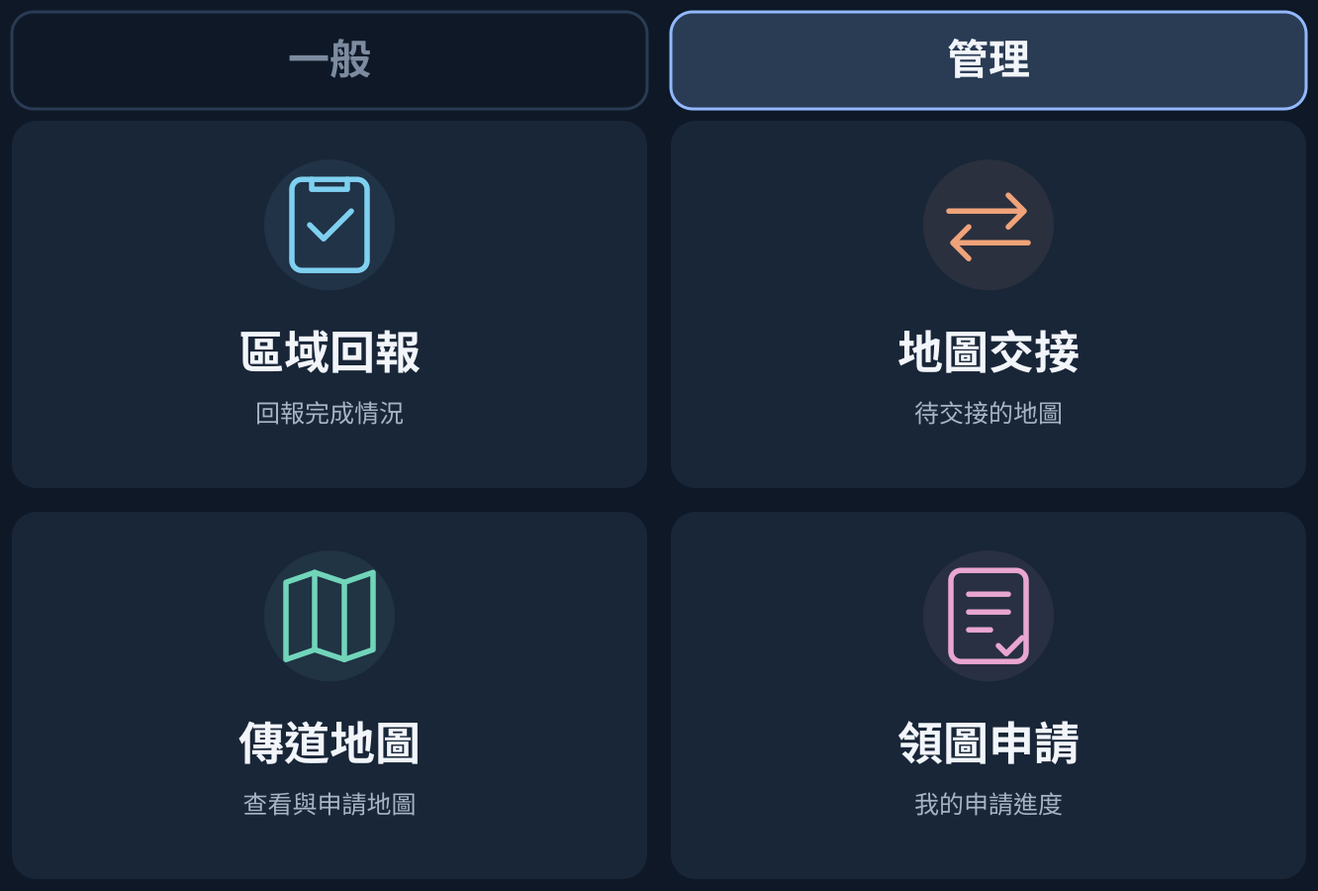
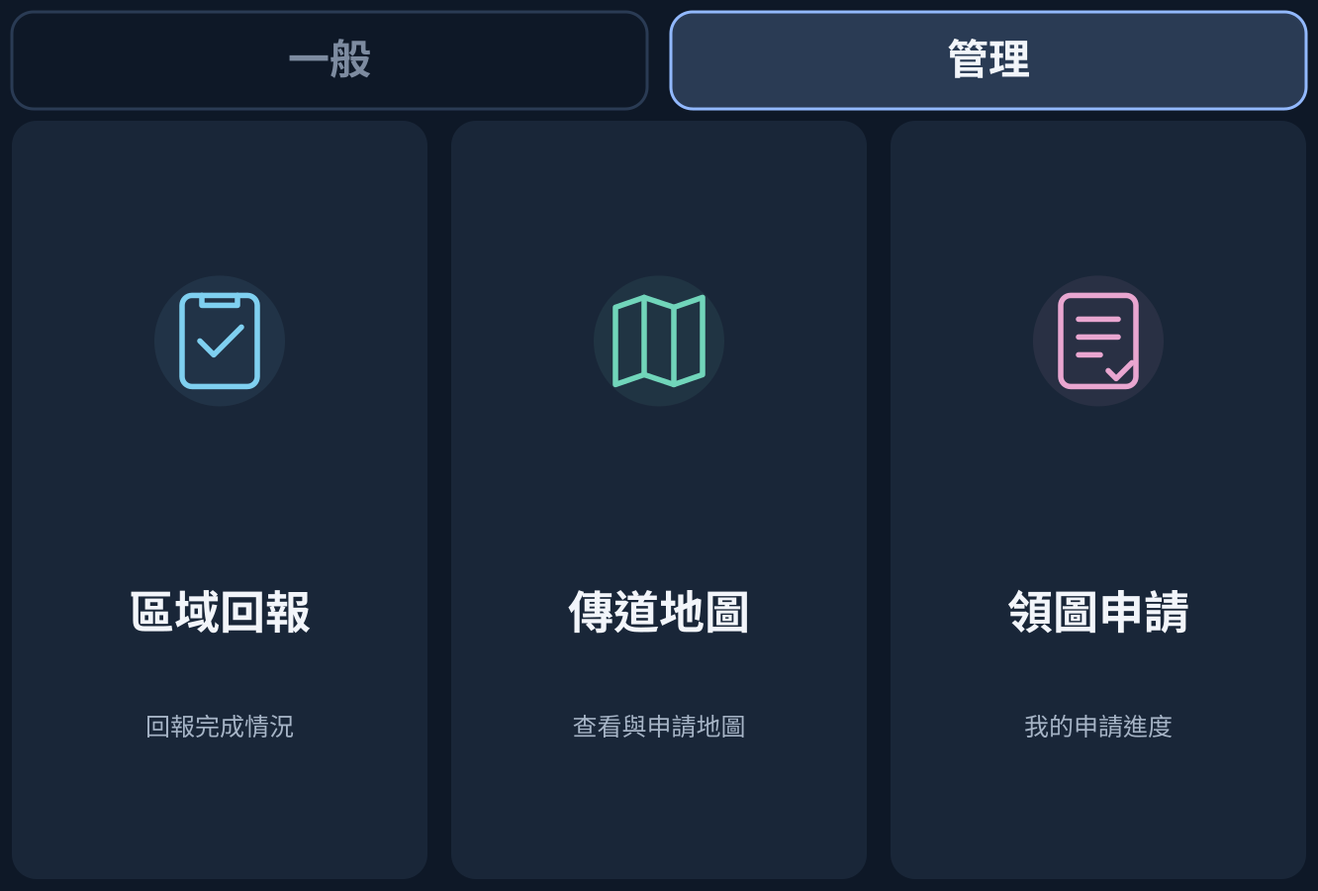
feat: 關閉地圖交接，LINE 管理頁拿掉交接格並升 v8（ADR-0120） (#84)
* feat: 被交接的弟兄可從地圖交接進入，通知附連結，預排只選弟兄（ADR-0119）

Claude-Session: https://claude.ai/code/session_01XDbjwRjmhBbJEnQBF1hhCM

* feat: 關閉地圖交接，LINE 管理頁拿掉交接格並升 v8（ADR-0120）

Claude-Session: https://claude.ai/code/session_01XDbjwRjmhBbJEnQBF1hhCM

---------

diff --git a/src/app/dashboard/page.tsx b/src/app/dashboard/page.tsx
@@ -9,7 +9,7 @@ import SyncCheck from '../../components/dashboard/SyncCheck'
 import PersonalAssignmentsPanel from '../../components/dashboard/PersonalAssignments'
 import type { PersonalAssignments } from '../../lib/personal-assignments'
 import { adminManagementLinks } from '@/lib/navigation'
-type Dashboard = { showTerritory: boolean; tasks: { id: string; areaId: string; label: string; date: string; status: string }[]; assignments: PersonalAssignments; handoffs: { areaId: string; label: string; publisher: string; submittedDate: string | null; next: {name: string; date: string} | null }[]; name: string; isAdmin: boolean; maps: { id: string; label: string; sheetNo: number | null; doNotVisitCount: number; dispatchedDate: string | null; heldDays: number | null; ministryPending: number; ministryActive: boolean; report: { date: string; status: string } | null }[]; pendingRequests: { id: string; label: string; date: string }[]; reviewCount: number | null }
+type Dashboard = { showTerritory: boolean; assignments: PersonalAssignments; handoffs: { areaId: string; label: string; publisher: string; submittedDate: string | null; next: {name: string; date: string} | null }[]; name: string; isAdmin: boolean; maps: { id: string; label: string; sheetNo: number | null; doNotVisitCount: number; dispatchedDate: string | null; heldDays: number | null; ministryPending: number; ministryActive: boolean; report: { date: string; status: string } | null }[]; pendingRequests: { id: string; label: string; date: string }[]; reviewCount: number | null }
 export default function DashboardPage() {
   const [data, setData] = useState<Dashboard | null>(null)
   const [error, setError] = useState('')
@@ -28,8 +28,8 @@ export default function DashboardPage() {
     if (!data) return
     const view = new URLSearchParams(window.location.search).get('view')
     if (!view || !['maps', 'week', 'handoffs', 'assignments'].includes(view)) return
-    // 地圖交接按鈕：先看排給我的地圖（領圖人與被交接人可能不同，ADR-0119），再看我要交接出去的。
-    const target = view === 'handoffs' && data.tasks.length ? 'assigned-maps' : view === 'week' || (!data.showTerritory && ['maps', 'handoffs'].includes(view)) ? 'assignments' : view
+    // 地圖交接已關閉（ADR-0120），舊的 handoffs 連結改到我的地圖。
+    const target = view === 'week' || (!data.showTerritory && ['maps', 'handoffs'].includes(view)) ? 'assignments' : view === 'handoffs' ? 'maps' : view
     const frame = requestAnimationFrame(() => document.getElementById(target)?.scrollIntoView({ block: 'start' }))
     return () => cancelAnimationFrame(frame)
   }, [data])
@@ -43,31 +43,17 @@ export default function DashboardPage() {
     {!data && !error && <div role="status" className="space-y-4"><span className="text-sm text-mc-text/70">正在載入看板…</span><div aria-hidden="true" className="h-48 rounded-xl bg-mc-card motion-safe:animate-pulse" /></div>}
     {data && <>
       <PersonalAssignmentsPanel data={data.assignments} kind={typeof window !== 'undefined' && new URLSearchParams(window.location.search).get('kind') === 'program' ? 'program' : 'service'} />
-      {data.tasks.length > 0 && <section id="assigned-maps" data-dashboard-section="handoffs" className="dashboard-section scroll-mt-20">
-        <div className="flex items-baseline justify-between gap-3"><h2 className="text-lg font-semibold">排給我的地圖</h2><span className="text-sm text-amber-200">{data.tasks.length} 筆</span></div>
-        <div className="mt-3 divide-y divide-white/10">{data.tasks.map(task => <a key={task.id} href={`/map/ministry/${encodeURIComponent(task.areaId)}`} className="flex min-h-16 items-center justify-between gap-3 py-3 hover:bg-white/[.03]">
-          <div className="min-w-0"><p className="break-words font-medium">{task.label}</p><p className="mt-1 text-sm text-mc-text/70">預排 {task.date}</p></div>
-          <span className={`flex shrink-0 items-center gap-1 text-sm ${task.status === 'active' ? 'text-amber-200' : 'text-mc-text/70'}`}>{task.status === 'active' ? '已交接給我' : '等待交接'}<ArrowRight size={16} aria-hidden="true" /></span>
-        </a>)}</div>
-      </section>}
       {data.showTerritory && <>
-        {!data.isAdmin && <section id="handoffs" data-dashboard-section="handoffs" className="dashboard-section scroll-mt-20">
-          <div className="flex items-baseline justify-between gap-3"><h2 className="text-lg font-semibold">待交接</h2><span className={`text-sm ${data.handoffs.length ? 'text-amber-200' : 'text-mc-text/70'}`}>{data.handoffs.length} 張</span></div>
-          {!data.handoffs.length ? <p className="mt-3 text-sm text-mc-text/70">目前無待交接地圖</p> : <div className="mt-3 divide-y divide-white/10">{data.handoffs.map(item => <details key={item.areaId} className="group">
-            <summary className="flex min-h-16 cursor-pointer list-none items-center justify-between gap-3 py-3 [&::-webkit-details-marker]:hidden"><span className="font-medium">{item.label}</span><span className="ml-auto text-sm text-amber-200">{item.next ? '已有下一位' : '待安排'}</span><ChevronDown size={16} aria-hidden="true" className="shrink-0 text-mc-text/70 transition-transform group-open:rotate-180" /></summary>
-            <div className="space-y-2 pb-5 text-sm text-mc-text/70"><p>{item.publisher} 已提交 · {item.submittedDate || '日期未記錄'}</p><p>{item.next ? `下一位：${item.next.name} · ${item.next.date}` : '尚未安排下一位'}</p><a href={`/map/ministry/${item.areaId}`} className="inline-flex min-h-11 items-center gap-2 text-blue-200">處理交接<ArrowRight size={16} aria-hidden="true" /></a></div>
-          </details>)}</div>}
-        </section>}
         <section id="maps" data-dashboard-section="maps" className="dashboard-section scroll-mt-20">
           <header className="flex flex-wrap items-baseline justify-between gap-3"><h2 className="text-lg font-semibold">我的地圖 <span className="ml-2 text-sm font-normal text-mc-text/70">{data.maps.length} 張</span></h2><a href="/map-requests" className="inline-flex min-h-11 items-center gap-2 text-sm text-blue-200">領圖申請{data.pendingRequests.length > 0 && <span className="text-amber-200">{data.pendingRequests.length} 待審</span>}<ArrowRight size={15} aria-hidden="true" /></a></header>
           {!data.maps.length ? <p className="py-5 text-sm text-mc-text/70">目前沒有持有地圖</p> : <div className="divide-y divide-white/10">{data.maps.map(map => <details key={map.id} className="group">
             <summary className="flex min-h-20 cursor-pointer list-none items-center gap-3 py-4 [&::-webkit-details-marker]:hidden">
-              <div className="min-w-0 flex-1"><h3 className="break-words font-medium">{map.label}</h3><p className="mt-1 text-sm text-mc-text/70">{map.ministryActive ? '傳道進行中' : map.ministryPending ? `${map.ministryPending} 筆預排` : '尚無預排'}{map.doNotVisitCount > 0 && <span className="ml-2 font-medium text-red-300">⚠ 拒訪 {map.doNotVisitCount} 筆</span>}</p></div>
+              <div className="min-w-0 flex-1"><h3 className="break-words font-medium">{map.label}</h3>{map.doNotVisitCount > 0 && <p className="mt-1 text-sm font-medium text-red-300">⚠ 拒訪 {map.doNotVisitCount} 筆</p>}</div>
               <span className="shrink-0 text-sm tabular-nums text-mc-text/70">{map.heldDays === null ? '日期待補' : `持有 ${map.heldDays} 天`}</span><ChevronDown size={16} aria-hidden="true" className="shrink-0 text-mc-text/70 transition-transform group-open:rotate-180" />
             </summary>
             <div className="space-y-4 pb-6">
               <dl className="grid gap-3 text-sm sm:grid-cols-2"><div><dt className="text-mc-text/70">領取日期</dt><dd className="mt-1">{map.dispatchedDate || '未記錄'}</dd></div><div><dt className="text-mc-text/70">本輪回報</dt><dd className="mt-1">{map.report ? `${map.report.date} 已提交` : map.dispatchedDate ? '尚未提交' : '無領取日期，無法判斷'}</dd></div></dl>
-              <div className="flex flex-wrap items-center gap-x-5 gap-y-2 text-sm"><a className="inline-flex min-h-11 items-center gap-2 rounded-lg bg-blue-300/15 px-4 text-blue-200 hover:bg-blue-300/25" href={`/map/ministry/${map.id}`}>管理／傳道進度<ArrowRight size={15} aria-hidden="true" /></a>{map.sheetNo && map.sheetNo !== 2 && <a className="inline-flex min-h-11 items-center text-mc-text/80 underline underline-offset-4" href={`/maps/areas/${map.sheetNo}.jpg`} target="_blank" rel="noreferrer">查看小地圖</a>}<a className="inline-flex min-h-11 items-center text-mc-text/80 underline underline-offset-4" href={map.sheetNo ? `/bulletin/territory-report?area=${map.sheetNo}` : '/bulletin/territory-report'}>提交回報</a></div>
+              <div className="flex flex-wrap items-center gap-x-5 gap-y-2 text-sm">{map.sheetNo && map.sheetNo !== 2 && <a className="inline-flex min-h-11 items-center text-mc-text/80 underline underline-offset-4" href={`/maps/areas/${map.sheetNo}.jpg`} target="_blank" rel="noreferrer">查看小地圖</a>}<a className="inline-flex min-h-11 items-center text-mc-text/80 underline underline-offset-4" href={map.sheetNo ? `/bulletin/territory-report?area=${map.sheetNo}` : '/bulletin/territory-report'}>提交回報</a></div>
               <p className="text-xs leading-relaxed text-mc-text/70">提交回報不代表整張完成；交回後才會移出清單。</p>
             </div>
           </details>)}</div>}

diff --git a/src/components/dashboard/AdminTaskCenter.tsx b/src/components/dashboard/AdminTaskCenter.tsx
@@ -7,7 +7,6 @@ import type { AdminTasks } from '../../lib/admin-tasks'
 const categories = [
   { key: 'line', label: 'LINE 待確認', unit: '人' },
   { key: 'requests', label: '領圖待審', unit: '張' },
-  { key: 'handoffs', label: '待交接', unit: '張' },
   { key: 'alerts', label: '回報待確認', unit: '則' },
   { key: 'doNotVisit', label: '拒訪待審', unit: '筆' },
 ] as const
@@ -32,7 +31,7 @@ export default function AdminTaskCenter() {
       if (controller.signal.aborted) return
       setData(value)
       if (!initialized.current) {
-        setCategory(new URLSearchParams(window.location.search).get('view') === 'handoffs' ? 'handoffs' : categories.find(c => value[c.key].count > 0)?.key || 'line')
+        setCategory(categories.find(c => value[c.key].count > 0)?.key || 'line')
         initialized.current = true
       }
     } catch (e) {
@@ -76,7 +75,6 @@ export default function AdminTaskCenter() {
       await load()
     } catch (e) { setError(e instanceof Error ? e.message : '處理失敗') } finally { setReviewing('') }
   }
-  const handoffs = data?.handoffs.items.slice(0, expanded ? undefined : 5) || []
   return <section id="handoffs" aria-labelledby="admin-tasks-title" data-dashboard-section="handoffs" className="dashboard-section">
     <header className="flex items-center justify-between gap-3">
       <h2 id="admin-tasks-title" className="font-semibold">管理待辦</h2>
@@ -97,7 +95,6 @@ export default function AdminTaskCenter() {
       <div className="mt-2 max-h-96 divide-y divide-white/5 overflow-y-auto">
         {category === 'line' && data.line.items.map((item, index) => <a key={index} href="/members#pending-line" className="flex min-h-14 items-center justify-between gap-3 px-1 py-3 hover:bg-white/[.03]"><div className="min-w-0"><strong className="block break-words text-sm">{item.name}</strong><p className="mt-1 text-xs text-mc-text/50">{item.date}</p></div><span className="flex shrink-0 items-center gap-1 text-xs text-blue-300">連結成員<ArrowRight size={14}/></span></a>)}
         {category === 'requests' && data.requests.items.map(item => <a key={item.id} href={`/map-requests#request-${encodeURIComponent(item.id)}`} className="flex min-h-14 items-center justify-between gap-3 px-1 py-3 hover:bg-white/[.03]"><div className="min-w-0"><strong className="block break-words text-sm">{item.label}<span className="ml-2 font-normal text-mc-text/60">{item.name}</span></strong><p className="mt-1 text-xs text-mc-text/50">{item.date}</p></div><span className="flex shrink-0 items-center gap-1 text-xs text-blue-300">審核<ArrowRight size={14}/></span></a>)}
-        {category === 'handoffs' && handoffs.map(item => <a key={item.areaId} href={`/map/ministry/${encodeURIComponent(item.areaId)}`} className="flex min-h-14 items-center justify-between gap-3 px-1 py-3 hover:bg-white/[.03]"><div className="min-w-0"><strong className="block text-sm">{item.label}<span className="ml-2 font-normal text-mc-text/60">管理者 {item.manager}</span></strong><p className="mt-1 text-xs text-amber-200">{item.next ? `下一位 ${item.next.name} · ${item.next.date}` : '待安排'}</p></div><span className="flex shrink-0 items-center gap-1 text-xs text-blue-300">交接<ArrowRight size={14}/></span></a>)}
         {category === 'doNotVisit' && data.doNotVisit.items.map(item => <div key={item.id} className="flex min-h-14 flex-wrap items-center justify-between gap-3 px-1 py-3"><div className="min-w-0 flex-1"><strong className="block break-words text-sm">{item.address}</strong><p className="mt-1 text-xs text-mc-text/60">{item.label} · {item.name} · {item.date}</p></div><div className="flex shrink-0 gap-2"><button disabled={Boolean(reviewing)} onClick={() => void reviewDoNotVisit(item, 'approve')} className="min-h-11 rounded-lg bg-blue-400/15 px-3 text-xs text-blue-200 disabled:opacity-40">{reviewing === item.id ? '處理中…' : '核准'}</button><button disabled={Boolean(reviewing)} onClick={() => void reviewDoNotVisit(item, 'reject')} className="min-h-11 rounded-lg bg-white/5 px-3 text-xs text-mc-text/70 disabled:opacity-40">不採用</button></div></div>)}
         {category === 'alerts' && data.alerts.items.map(item => <div key={item.id} className="space-y-2 px-1 py-3">
           <div className="flex flex-wrap items-center gap-2"><span className="rounded-full bg-amber-400/15 px-2 py-0.5 text-xs text-amber-200">{item.badge}</span><strong className="text-sm">{item.label}</strong><span className="text-xs text-mc-text/50">{item.date}</span></div>
@@ -109,7 +106,6 @@ export default function AdminTaskCenter() {
       <div className="text-xs">
         {category === 'line' && data.line.count > 5 && <a href="/members#pending-line" className="inline-flex min-h-11 items-center text-blue-300">查看全部（{data.line.count}）</a>}
         {category === 'requests' && data.requests.count > 5 && <a href="/map-requests" className="inline-flex min-h-11 items-center text-blue-300">查看全部（{data.requests.count}）</a>}
-        {category === 'handoffs' && data.handoffs.count > 5 && <button onClick={() => setExpanded(v => !v)} className="min-h-11 text-blue-300">{expanded ? '收合清單' : `查看全部 ${data.handoffs.count} 張`}</button>}
       </div>
     </>}
   </section>

diff --git a/src/lib/line-rich-menu.ts b/src/lib/line-rich-menu.ts
@@ -12,9 +12,9 @@ export type MenuKey = 'sister' | 'brother-general' | 'brother-manage' | 'admin-g
 export const menuKeys: MenuKey[] = ['sister', 'brother-general', 'brother-manage', 'admin-general', 'admin-manage']
 const tabbedKeys = menuKeys.filter(key => key !== 'sister') as Exclude<MenuKey, 'sister'>[]
 const liffId = configuredLiffId()
-const stateKey = (key: MenuKey) => liffId ? `line_rich_menu_v7_${key}_liff_${liffId}` : `line_rich_menu_v7_${key}`
+const stateKey = (key: MenuKey) => liffId ? `line_rich_menu_v8_${key}_liff_${liffId}` : `line_rich_menu_v8_${key}`
 // Alias ids are per channel: [a-z0-9_-], at most 32 characters.
-export const aliasId = (key: MenuKey) => `cms-v7-${key}`
+export const aliasId = (key: MenuKey) => `cms-v8-${key}`
 const menuUrl = (view: string) => liffId ? `https://liff.line.me/${liffId}/?view=${view}` : `${botSite}${liffDestination(view)}`
 const lockKey = 'line_rich_menu_publish_lock'
 const api = 'https://api.line.me/v2/bot'
@@ -23,7 +23,7 @@ const uri = (view: string) => ({ type: 'uri' as const, uri: menuUrl(view) })
 const tiles: Record<string, { type: 'uri'; uri: string } | { type: 'message'; text: string }> = {
   publicTalks: uri('public-talks'), midweekMeeting: uri('midweek-meeting'), announcementsView: uri('announcements'), groups: uri('ministry-groups'),
   meetingPoints: uri('meeting-points'), serviceRoster: uri('service-roster'), dashboard: uri('dashboard'), assignments: { type: 'message', text: '我的委派' }, territory: uri('territory'),
-  report: uri('report'), handoffs: uri('handoffs'), myRequests: uri('requests'),
+  report: uri('report'), myRequests: uri('requests'),
   roster: uri('roster'), midweek: uri('midweek'), announcements: uri('manage-announcements'), members: uri('members'),
 }
 // Same rows and sizes as scripts/create-line-menu.cjs, which draws the images.
@@ -31,9 +31,9 @@ const general = [['publicTalks', 'midweekMeeting', 'announcementsView', 'groups'
 const layouts: Record<MenuKey, { width: number; height: number; label: string; tab: 'general' | 'manage' | null; rows: string[][] }> = {
   sister: { width: 1332, height: 674, label: '一般', tab: null, rows: general },
   'brother-general': { width: 1332, height: 900, label: '弟兄一般', tab: 'general', rows: general },
-  'brother-manage': { width: 1332, height: 900, label: '弟兄管理', tab: 'manage', rows: [['report', 'handoffs'], ['territory', 'myRequests']] },
+  'brother-manage': { width: 1332, height: 900, label: '弟兄管理', tab: 'manage', rows: [['report', 'territory', 'myRequests']] },
   'admin-general': { width: 1332, height: 900, label: '管理者一般', tab: 'general', rows: general },
-  'admin-manage': { width: 1332, height: 900, label: '管理者管理', tab: 'manage', rows: [['report', 'handoffs', 'roster', 'midweek'], ['territory', 'myRequests', 'announcements', 'members']] },
+  'admin-manage': { width: 1332, height: 900, label: '管理者管理', tab: 'manage', rows: [['report', 'territory', 'myRequests'], ['roster', 'midweek', 'announcements', 'members']] },
 }
 const BAR = 110
 function definition(key: MenuKey) {
@@ -46,7 +46,7 @@ function definition(key: MenuKey) {
   })) : []
   return {
     size: { width, height }, selected: true,
-    name: `楠梓會眾${label}選單 v7`, chatBarText: '開啟功能選單',
+    name: `楠梓會眾${label}選單 v8`, chatBarText: '開啟功能選單',
     areas: [...tabAreas, ...rows.flatMap((keys, row) => {
       const cell = Math.floor(width / keys.length), y = top + row * rowH
       return keys.map((name, i) => ({

diff --git a/src/lib/line-bot-queries.ts b/src/lib/line-bot-queries.ts
@@ -1,8 +1,5 @@
 import type { PrismaClient } from '@prisma/client'
 import { allocationLabel, isAreaDispatched } from './allocation'
-import { ministryCycle } from './ministry'
-import { ministryWeek } from './ministry-week'
-import { taipeiDate } from './google-sheets'
 import { botSite, lineDisplayName } from './line-bot-client'
 import { pendingLineMessage, recordPendingLineIdentity } from './pending-line-identities'
 
@@ -18,18 +15,10 @@ export async function lineBotAnswer(db: PrismaClient, uid: string, command: stri
   if (!member.active) return '此成員帳號已停用，請聯絡管理員確認權限。'
   const footer = `\n\n開啟網站查看詳情：\n${botSite}/dashboard`
   if (command === '我的委派') return assignmentsText(await personalAssignments(db, member.id, now), `${botSite}/dashboard?view=assignments`)
-  if (command === '本週行程') {
-    const rows = await db.ministryVisit.findMany({ where: { publisherId: member.id, status: { in: ['planned','active'] } }, include: { area: true }, orderBy: { scheduledDate: 'asc' } })
-    const tasks = rows.filter(v=>isAreaDispatched(v.area)&&v.cycleKey===ministryCycle(v.area)).map(v=>({ id:v.id,areaId:v.areaId,label:allocationLabel(v.area),date:v.scheduledDate,status:v.status }))
-    const week = ministryWeek(taipeiDate(now), tasks)
-    const entries = week.days.flatMap(d=>d.tasks)
-    const lines = entries.slice(0,15).map(t=>`${t.date}｜${t.label}｜${t.status==='active'?'進行中':'待交接'}`)
-    return `本週行程 ${week.days[0].date} ～ ${week.days[6].date}\n${lines.join('\n')||'本週沒有安排'}${entries.length>15?'\n其餘安排請至網站查看。':''}${week.earlier.length?`\n另有 ${week.earlier.length} 筆先前尚未完成。`:''}${footer}`
-  }
-  if (command === '我的地圖' || command === '待交接') {
-    const areas = await db.area.findMany({ where: { assignedMemberId: member.id }, include: { ministryVisits: { select: { status: true, cycleKey: true } } }, orderBy: { sheetNo: 'asc' } })
-    const maps = areas.filter(isAreaDispatched).filter(a=>command==='我的地圖'||(a.ministryVisits.some(v=>v.cycleKey===ministryCycle(a)&&v.status==='submitted')&&!a.ministryVisits.some(v=>v.cycleKey===ministryCycle(a)&&v.status==='active')))
+  if (command === '我的地圖') {
+    const areas = await db.area.findMany({ where: { assignedMemberId: member.id }, orderBy: { sheetNo: 'asc' } })
+    const maps = areas.filter(isAreaDispatched)
     return `${command} · ${maps.length} 張\n${maps.slice(0,20).map(allocationLabel).join('\n')||'目前沒有地圖'}${maps.length>20?'\n更多地圖請至網站查看。':''}${footer}`
   }
-  return `地圖分配系統\n請點下方「我的委派」「我的地圖」「本週行程」或「待交接」。\n查看交接摘要、塗畫、預排與回報請開啟網站。${footer}`
+  return `地圖分配系統\n請點下方「我的委派」或「我的地圖」。${footer}`
 }

diff --git a/src/app/api/dashboard/route.ts b/src/app/api/dashboard/route.ts
@@ -14,11 +14,10 @@ export async function GET() {
   try {
     const memberId = auth.user.id!
     const isAdmin = auth.user.role === 'admin'
-    const [areas, pendingRequests, reviewCount, assignedVisits, assignments, member] = await Promise.all([
+    const [areas, pendingRequests, reviewCount, assignments, member] = await Promise.all([
       prisma.area.findMany({ where: { assignedMemberId: memberId }, select: { id: true, name: true, mapId: true, mapAreaId: true, sheetNo: true, assignedMemberId: true, dispatchedAt: true, completedAt: true, doNotVisit: true, ministryVisits: { select: { status: true, cycleKey: true, publisherName: true, scheduledDate: true, submittedAt: true } }, reports: { where: { memberId }, orderBy: { submittedAt: 'desc' }, take: 1, select: { submittedAt: true, status: true } } }, orderBy: { dispatchedAt: 'asc' } }),
       prisma.mapRequest.findMany({ where: { memberId, status: 'pending' }, select: { id: true, createdAt: true, area: { select: { name: true, mapId: true, mapAreaId: true, sheetNo: true } } }, orderBy: { createdAt: 'asc' } }),
       isAdmin ? prisma.mapRequest.count({ where: { status: 'pending' } }) : Promise.resolve(null),
-      prisma.ministryVisit.findMany({ where: { publisherId: memberId, status: { in: ['planned', 'active'] } }, include: { area: { select: { id: true, name: true, mapId: true, sheetNo: true, mapAreaId: true, assignedMemberId: true, dispatchedAt: true, completedAt: true } } }, orderBy: { scheduledDate: 'asc' } }),
       personalAssignments(prisma, memberId),
       prisma.member.findUnique({ where: { id: memberId }, select: { showInDispatch: true } }),
     ])
@@ -31,7 +30,6 @@ export async function GET() {
       const handoff = ministryHandoff(area)
       return handoff ? [handoff] : []
     })
-    const tasks = assignedVisits.filter(v => isAreaDispatched(v.area) && v.cycleKey === ministryCycle(v.area)).map(v => ({ id: v.id, areaId: v.areaId, label: allocationLabel(v.area), date: v.scheduledDate, status: v.status }))
-    return NextResponse.json({ showTerritory: member?.showInDispatch === true, today, assignments, handoffs, tasks, name: auth.user.name || '成員', isAdmin, maps, pendingRequests: pendingRequests.map(r => ({ id: r.id, label: allocationLabel(r.area), date: taipeiDate(r.createdAt) })), reviewCount }, { headers: { 'Cache-Control': 'no-store' } })
+    return NextResponse.json({ showTerritory: member?.showInDispatch === true, today, assignments, handoffs, name: auth.user.name || '成員', isAdmin, maps, pendingRequests: pendingRequests.map(r => ({ id: r.id, label: allocationLabel(r.area), date: taipeiDate(r.createdAt) })), reviewCount }, { headers: { 'Cache-Control': 'no-store' } })
   } catch { return NextResponse.json({ error: '暫時無法讀取你的地圖，請稍後重試。' }, { status: 503 }) }
 }

diff --git a/src/lib/member-deletion.ts b/src/lib/member-deletion.ts
@@ -12,10 +12,7 @@ export async function deleteMember(db: PrismaClient, id: string, actorId: string
     if (!member || member.deletedAt) throw new MemberDeletionError('成員不存在', 404)
     const areas = await tx.area.findMany({ where: { assignedMemberId: id } })
     if (areas.some(isAreaDispatched)) throw new MemberDeletionError('請先交回或轉移持有的地圖')
-    const visit = await tx.ministryVisit.findFirst({ where: {
-      OR: [{ publisherId: id }, { managerId: id }], status: { in: ['planned', 'active'] },
-    } })
-    if (visit) throw new MemberDeletionError('請先取消或轉移未完成行程')
+    // 地圖交接已關閉（ADR-0120），沒有介面能取消傳道安排，不再以此擋刪除。
     // Preserve historical relations, but release the login identity.
     await tx.member.update({ where: { id }, data: {
       deletedAt: now, active: false, showInDispatch: false, lineuid: null, lineDisplayName: null, linePictureUrl: null,

diff --git a/src/lib/line-bot-client.ts b/src/lib/line-bot-client.ts
@@ -42,5 +42,5 @@ export async function lineRequest(kind: 'reply' | 'push', body: unknown, retryKe
   return { accepted: response.ok || (kind === 'push' && response.status === 409 && !!response.headers.get('x-line-accepted-request-id')), status: response.status }
 }
 export function botText(text: string) {
-  return { type: 'text', text: text.slice(0,4500), quickReply: { items: [...['我的委派','我的地圖','本週行程','待交接'].map(label=>({ type: 'action', action: { type: 'message', label, text: label } })), { type: 'action', action: { type: 'uri', label: '通知設定', uri: `${botSite}/dashboard` } }] } }
+  return { type: 'text', text: text.slice(0,4500), quickReply: { items: [...['我的委派','我的地圖'].map(label=>({ type: 'action', action: { type: 'message', label, text: label } })), { type: 'action', action: { type: 'uri', label: '通知設定', uri: `${botSite}/dashboard` } }] } }
 }

diff --git a/src/lib/line-pairing-notification.ts b/src/lib/line-pairing-notification.ts
@@ -4,7 +4,7 @@ import { queueLineNotification, drainLineNotifications } from './line-notificati
 
 export async function queuePairingNotice(tx: Prisma.TransactionClient, member: { id: string; name: string }) {
   return queueLineNotification(tx, member.id,
-    `已完成確認，您的 LINE 帳號已連結至「${member.name}」。\n可以查詢「我的地圖」「本週行程」「待交接」。\n\n請重新登入網站使用成員功能：\n${botSite}/login`, new Date())
+    `已完成確認，您的 LINE 帳號已連結至「${member.name}」。\n可以查詢「我的委派」「我的地圖」。\n\n請重新登入網站使用成員功能：\n${botSite}/login`, new Date())
 }
 
 export async function deliverPairingNotice(db: PrismaClient, id: string | null) {

diff --git a/src/app/map/ministry/[id]/layout.tsx b/src/app/map/ministry/[id]/layout.tsx
@@ -1,5 +1,6 @@
-export const metadata = { title: '傳道進度與交接' }
+import { redirect } from 'next/navigation'
 
-export default function Layout({ children }: { children: React.ReactNode }) {
-  return children
+// 地圖交接已關閉（ADR-0120）：舊連結與 LINE 通知裡的網址導回我的看板，資料保留不刪。
+export default function Layout() {
+  redirect('/dashboard?view=maps')
 }

diff --git a/docs/adr/0120-close-map-handoff.md b/docs/adr/0120-close-map-handoff.md
@@ -1,0 +1,20 @@
+# ADR-0120：關閉地圖交接功能
+
+2026-11-09，已接受。取代 ADR-0119，並停用 ADR-0025、0027、0028 的操作入口。
+
+## 背景
+
+使用者看過地圖交接（傳道預排、塗畫局部進度、交接、整張交回）的完整流程後，覺得太複雜，決定先關閉。
+
+## 決策
+
+- LINE 管理頁拿掉「地圖交接」格。弟兄管理頁一排三格：區域回報、傳道地圖、領圖申請。管理者管理頁上排同弟兄三格，下排服務安排、週中編排、管理公告、成員管理；拿掉左右虛線分隔。選單圖片改變，狀態鍵與 alias 升為 v8（`line_rich_menu_v8_*`、`cms-v8-*`），部署後需再按一次「發布至 LINE」。
+- 我的看板拿掉「待交接」「排給我的地圖」區塊，以及我的地圖裡的「管理／傳道進度」連結與預排狀態文字；管理員待辦中心拿掉「待交接」分類。舊的 `?view=handoffs` 連結改捲到我的地圖。
+- `/map/ministry/[id]` 一律導回我的看板（我的地圖），舊 LINE 通知裡的連結不會 404。沒有頁面就不會再產生交接通知。
+- LINE 私訊拿掉「本週行程」「待交接」指令與快速回覆，只留「我的委派」「我的地圖」。
+- 刪除成員不再因未完成的傳道安排而被擋，因為已沒有介面可以取消。
+
+## 不變
+
+- `ministry_visits` 資料表與既有資料保留，不做破壞性遷移；交接 API 程式保留，日後要重新開啟時再補入口。
+- 交回地圖、區域回報、領圖申請、Sheet 同步都不受影響。

diff --git a/docs/line-bot-setup.md b/docs/line-bot-setup.md
@@ -10,7 +10,7 @@
    - `LINE_BOT_ENABLED=true`：正式啟用開關。
 3. 重新部署後，管理員儀錶板「LINE Bot 通知」應顯示已啟用。
 4. 官方帳號 Webhook URL 設為 `https://congregation-management-system.vercel.app/api/line-bot/webhook`，按 Verify 並開啟 Use webhook。若原帳號已有其他 webhook 服務，先確認整合方式，不直接覆蓋。避免既有自動回覆重複回答相同指令。
-5. 管理員及測試傳道者加入官方帳號好友。未綁定 UID 首次私訊或 LINE 登入會登記並提示「待管理員確認權限」；管理員至成員管理「待確認 LINE 帳號」連結既有成員。連結後重新登入或再次私訊「我的地圖」「本週行程」「待交接」確認只看到本人資料；群組不回覆、不登記。
+5. 管理員及測試傳道者加入官方帳號好友。未綁定 UID 首次私訊或 LINE 登入會登記並提示「待管理員確認權限」；管理員至成員管理「待確認 LINE 帳號」連結既有成員。連結後重新登入或再次私訊「我的委派」「我的地圖」確認只看到本人資料；群組不回覆、不登記。
 6. 使用實際安排測試 plan、reschedule、start、submit：目標人收到預排／交接；管理者收到局部提交提醒。塗畫草稿不通知。重新分配預排時原人員會收到改派提醒。
 
 ## 圖文選單與配對完成通知

diff --git a/CONTEXT.md b/CONTEXT.md
@@ -1,5 +1,7 @@
 # 地圖分配系統 — 領域詞彙表
 
+- 2026-11-09：使用者覺得地圖交接太複雜，決定先關閉。LINE 管理頁拿掉地圖交接格（弟兄一排三格；管理者上排弟兄三格、下排四個管理項目，選單升 v8 需重新發布），看板與待辦中心拿掉交接相關區塊，交接頁導回我的看板，LINE 私訊只留我的委派、我的地圖。資料保留不刪。詳見 ADR-0120。
+
 - 2026-11-08：使用者確認領取地圖的人和實際被交接的人常不相同，且姊妹領的都是個人區域、不參與交接。LINE「地圖交接」進入的看板新增「排給我的地圖」（預排或已交接給我，不派發的弟兄也看得到），通知附交接頁連結；預排傳道只能選弟兄。詳見 ADR-0119。
 
 - 2026-11-07：使用者更正週中編排打錯名字的提示方式：離開姓名輸入框時，若姓名不在成員名單，跳出「不在成員名單中，確定要委派嗎？」按確定保留，按修改回到輸入框。取消先前的標紅、列表與發布確認。詳見 ADR-0118 修訂。
